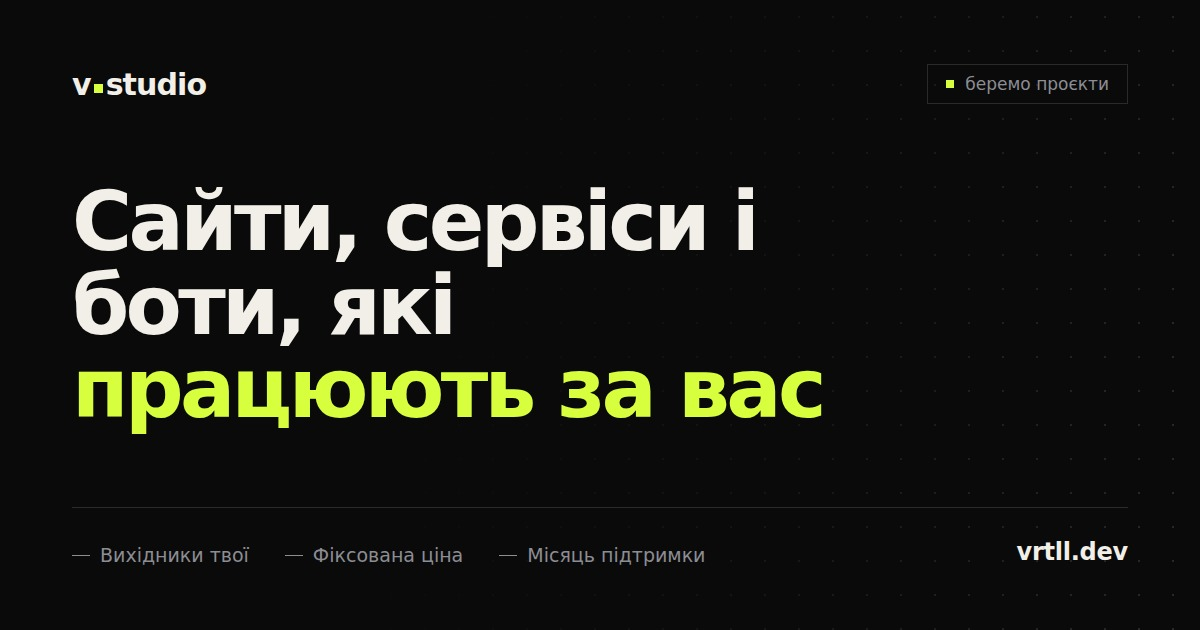
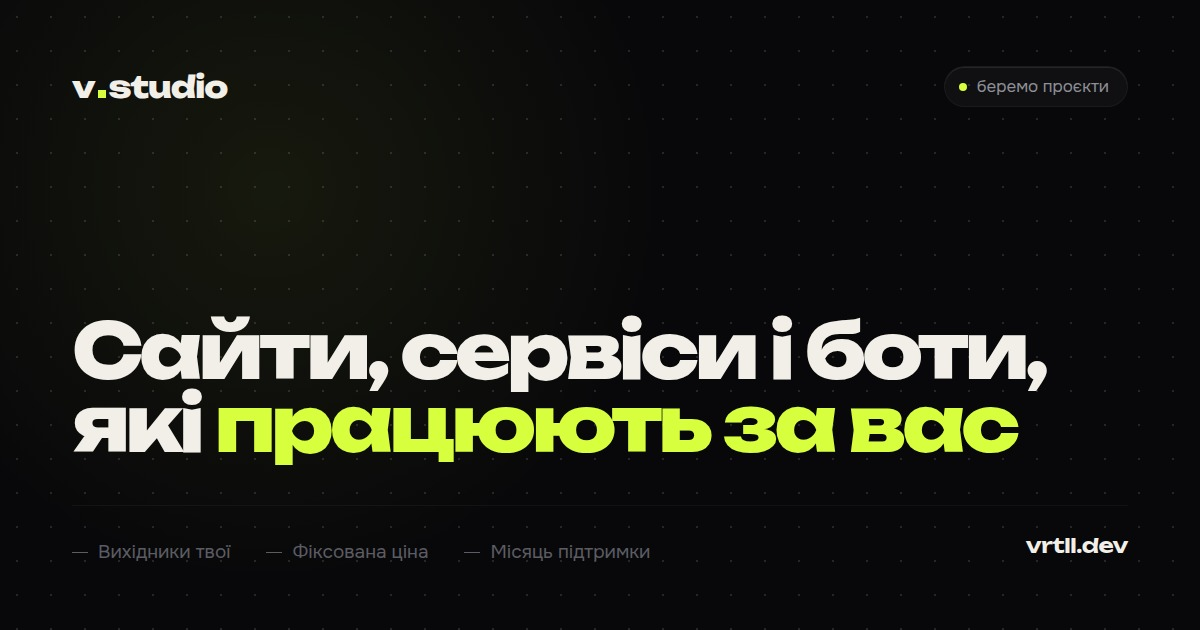
Картка для соцмереж — у новому оформленні
img/og.jpg показувала старий сайт: інші кольори, системний шрифт.
Людина бачить цю картинку раніше за сам сайт, і вона має обіцяти
саме те, що потім відкриється.

Тепер це те саме чорне скло: фон #08080a, сітка точок із тим самим
кроком 34px, світло згори зліва, квадратна крапка в знаку.
Заголовок набраний справжнім Unbounded — макет тягне той самий
css/fonts.css, що й сайт, тому при зміні шрифтів картка не
розійдеться.

У render.js полагоджено дві речі: сервер віддавав усе як html (з
чужим типом браузер мовчки відмовлявся застосовувати css), і знімок
робився до того, як доїдуть шрифти.

Claude-Session: https://claude.ai/code/session_015etPvoX5NEAr8Wd6gVfCEU

diff --git a/brand/og/index.html b/brand/og/index.html
@@ -2,119 +2,158 @@
 <html lang="uk">
 <head>
 <meta charset="UTF-8">
-<title>v.studio — картка для соцмереж</title>
-<!--
-  Картинка, которую показывают телеграм, фейсбук и поиск, когда
-  кто-то кидает ссылку на сайт. 1200×630 — размер, который все они
-  понимают без обрезки.
+<title>og — v.studio</title>
 
-  Оформление не выдумано: та же бумага по чернилам, тот же кислотный
-  акцент и та же сетка точек с шагом 34px, что на самом сайте.
--->
+<!-- Те же шрифты, что на сайте. Берём не копию, а тот же
+     css/fonts.css: карточка не должна разъехаться с сайтом, когда
+     шрифты поменяются. -->
+<link rel="stylesheet" href="/css/fonts.css">
+
 <style>
+  /* Карточка для соцсетей — 1200×630, ровно и без масштабирования:
+     телеграм и фейсбук режут всё, что не в этих пропорциях.
+
+     Оформление то же, что на сайте: чёрное стекло. Человек видит
+     эту картинку раньше самого сайта, и она обязана обещать
+     именно то, что он потом откроет. */
   :root {
-    --ink: #0a0a0b;
+    --void: #08080a;
     --paper: #f2efe8;
-    --muted: #8d8d94;
+    --muted: #8f8f97;
+    --faint: #5c5c64;
     --acid: #d8ff3e;
-    --rule: rgba(242, 239, 232, 0.14);
+    --rule: rgba(255, 255, 255, 0.08);
+    --rule-soft: rgba(255, 255, 255, 0.045);
+    --glass: rgba(255, 255, 255, 0.035);
   }
-  * { box-sizing: border-box; margin: 0; padding: 0; }
-  html, body { width: 1200px; height: 630px; overflow: hidden; }
+
+  * { box-sizing: border-box; margin: 0; }
 
   body {
+    width: 1200px;
+    height: 630px;
+    overflow: hidden;
     position: relative;
-    display: flex;
-    flex-direction: column;
-    justify-content: space-between;
-    padding: 64px 72px;
-    background: var(--ink);
+    background: var(--void);
     color: var(--paper);
-    font-family: system-ui, -apple-system, 'Segoe UI', Roboto, sans-serif;
-    -webkit-font-smoothing: antialiased;
+    font-family: 'Onest', system-ui, sans-serif;
   }
 
-  /* сетка точек — как фон сайта, только не двигается */
-  body::before {
-    content: '';
+  /* Фоновая сетка точек — тот же шаг 34px, что рисует канвас на
+     сайте. Здесь она статична: это картинка, а не страница. */
+  .dots {
     position: absolute;
     inset: 0;
-    background-image: radial-gradient(circle, rgba(242, 239, 232, 0.16) 1px, transparent 1px);
+    background-image: radial-gradient(circle, rgba(242, 239, 232, 0.13) 1px, transparent 1px);
     background-size: 34px 34px;
   }
-  /* к правому краю сетка гаснет, чтобы не спорить с текстом */
-  body::after {
-    content: '';
+
+  /* Свет сверху слева: он и создаёт ту самую глубину, ради
+     которой всё затевалось. */
+  .glow {
     position: absolute;
-    inset: 0;
-    background: linear-gradient(100deg, var(--ink) 34%, rgba(10, 10, 11, 0.72) 62%, rgba(10, 10, 11, 0.1));
+    left: -180px;
+    top: -260px;
+    width: 900px;
+    height: 900px;
+    background: radial-gradient(circle, rgba(216, 255, 62, 0.07), transparent 62%);
   }
-  body > * { position: relative; z-index: 1; }
+
+  .frame {
+    position: relative;
+    height: 100%;
+    padding: 66px 72px;
+    display: flex;
+    flex-direction: column;
+  }
 
   .top { display: flex; align-items: center; justify-content: space-between; }
 
-  .brand { font-size: 30px; font-weight: 800; letter-spacing: -0.03em; }
-  /* точка в имени — квадрат: так она выглядит в Unbounded на сайте */
+  .brand {
+    display: inline-flex;
+    align-items: baseline;
+    gap: 3px;
+    font-family: 'Unbounded', sans-serif;
+    font-weight: 800;
+    font-size: 30px;
+    letter-spacing: -0.03em;
+  }
+  /* Точка в имени — квадрат, как в знаке на сайте */
   .brand i {
-    display: inline-block;
-    width: 9px; height: 9px;
-    margin: 0 3px 2px;
+    width: 0.26em;
+    height: 0.26em;
     background: var(--acid);
     font-style: normal;
+    color: transparent;
+    overflow: hidden;
   }
 
   .status {
     display: inline-flex;
     align-items: center;
-    gap: 11px;
-    padding: 9px 18px;
-    border: 1px solid var(--rule);
+    gap: 10px;
+    padding: 9px 18px 9px 14px;
+    border-radius: 999px;
+    background: var(--glass);
+    border: 1px solid var(--rule-soft);
+    box-shadow: inset 0 1px 0 rgba(255, 255, 255, 0.09);
     font-size: 17px;
     color: var(--muted);
   }
-  .status b { width: 8px; height: 8px; background: var(--acid); }
+  .status b { width: 8px; height: 8px; border-radius: 50%; background: var(--acid); }
 
   h1 {
-    max-width: 15ch;
-    font-size: 82px;
+    margin-top: auto;
+    max-width: 17ch;
+    font-family: 'Unbounded', sans-serif;
     font-weight: 800;
-    line-height: 1.02;
-    letter-spacing: -0.045em;
+    font-size: 76px;
+    line-height: 0.96;
+    letter-spacing: -0.055em;
   }
   h1 em { font-style: normal; color: var(--acid); }
 
   .foot {
+    margin-top: 44px;
+    padding-top: 26px;
+    border-top: 1px solid var(--rule-soft);
     display: flex;
-    align-items: flex-end;
+    align-items: baseline;
     justify-content: space-between;
-    gap: 40px;
-    padding-top: 30px;
-    border-top: 1px solid var(--rule);
   }
-  .facts { display: flex; gap: 36px; font-size: 19px; color: var(--muted); }
-  .facts span { display: flex; align-items: center; gap: 10px; }
-  .facts span::before { content: ''; width: 18px; height: 1px; background: currentColor; }
 
-  .site { font-size: 24px; font-weight: 600; letter-spacing: -0.01em; }
+  .facts { display: flex; gap: 36px; font-size: 19px; color: var(--faint); }
+  .facts span { display: inline-flex; align-items: center; gap: 10px; }
+  .facts span::before { content: ''; width: 16px; height: 1px; background: currentColor; }
+
+  .site {
+    font-family: 'Unbounded', sans-serif;
+    font-weight: 600;
+    font-size: 21px;
+    letter-spacing: -0.02em;
+  }
 </style>
 </head>
 <body>
+<div class="dots"></div>
+<div class="glow"></div>
 
-<div class="top">
-  <span class="brand">v<i></i>studio</span>
-  <span class="status"><b></b>беремо проєкти</span>
-</div>
-
-<h1>Сайти, сервіси і боти, які <em>працюють за вас</em></h1>
-
-<div class="foot">
-  <div class="facts">
-    <span>Вихідники твої</span>
-    <span>Фіксована ціна</span>
-    <span>Місяць підтримки</span>
+<div class="frame">
+  <div class="top">
+    <span class="brand">v<i>.</i>studio</span>
+    <span class="status"><b></b>беремо проєкти</span>
   </div>
-  <span class="site">vrtll.dev</span>
-</div>
 
+  <h1>Сайти, сервіси і боти, які <em>працюють за вас</em></h1>
+
+  <div class="foot">
+    <div class="facts">
+      <span>Вихідники твої</span>
+      <span>Фіксована ціна</span>
+      <span>Місяць підтримки</span>
+    </div>
+    <span class="site">vrtll.dev</span>
+  </div>
+</div>
 </body>
 </html>

diff --git a/brand/og/render.js b/brand/og/render.js
@@ -18,7 +18,15 @@ const W = 1200, H = 630;
 const srv = http.createServer((req, res) => {
   const file = path.join(ROOT, decodeURIComponent(req.url.split('?')[0]));
   if (!file.startsWith(ROOT) || !fs.existsSync(file)) { res.writeHead(404).end(); return; }
-  res.writeHead(200, { 'content-type': 'text/html; charset=utf-8' });
+  /* Карточка тянет те же шрифты, что и сайт, поэтому сервер должен
+     уметь отдавать не только html: с чужим типом браузер молча
+     откажется применять css, и надпись уедет системным шрифтом. */
+  const MIME = {
+    '.html': 'text/html; charset=utf-8',
+    '.css': 'text/css; charset=utf-8',
+    '.woff2': 'font/woff2'
+  };
+  res.writeHead(200, { 'content-type': MIME[path.extname(file)] || 'application/octet-stream' });
   fs.createReadStream(file).pipe(res);
 });
 
@@ -32,7 +40,11 @@ srv.listen(0, '127.0.0.1', async () => {
     deviceScaleFactor: 1
   });
   await page.goto(`${base}/brand/og/index.html`, { waitUntil: 'load' });
-  await page.waitForTimeout(400);
+  // Ждём шрифты: canvas и скриншот не умеют перерисовать текст
+  // задним числом, и кадр, снятый на полсекунды раньше, выйдет
+  // системным шрифтом вместо Unbounded.
+  await page.evaluate(() => document.fonts.ready);
+  await page.waitForTimeout(300);
   await page.screenshot({ path: OUT, type: 'jpeg', quality: 92 });
   await browser.close();
   srv.close();
